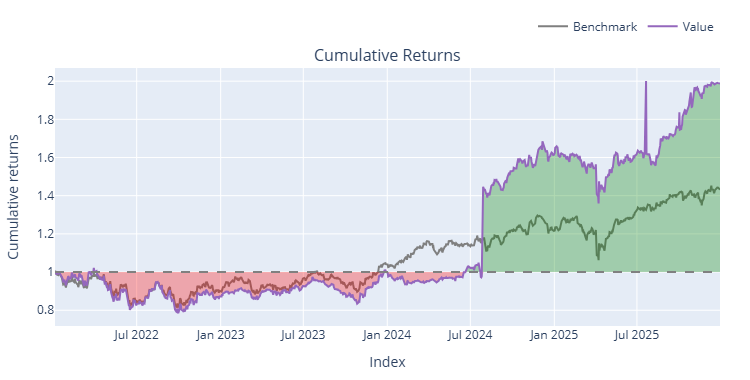
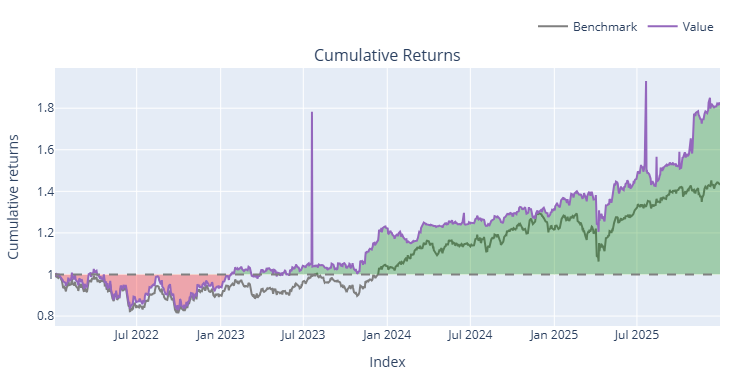
running backtest #2 - quite stabilized weights in portfolio

diff --git a/equity_project/src/run_backtest.py b/equity_project/src/run_backtest.py
@@ -90,6 +90,23 @@ def generate_weights(preds):
     weights = weights.fillna(0)
     return weights
 
+def stabilize_size_for_month(size):
+    """Выравниваем веса акций в портфеле,
+    чтобы они были стабильными с начала по конец каждого месяца
+
+    Args:
+        size (pd.DataFrame): Размеры позиций по каждой акции на каждый день
+
+    Returns:
+        pd.DataFrame: Обновленные веса бумаг в портфеле
+    """
+    # Resample to get the first value of each month
+    monthly_firsts = size.resample('MS').first()
+
+    # Reindex back to the original index and forward fill
+    size_stabilized = monthly_firsts.reindex(size.index, method='ffill')
+
+    return size_stabilized
 
 def run_backtest():
     """
@@ -121,6 +138,7 @@ def run_backtest():
     # избавляемся от полностью пустых колонок котировок
     close = backtest_data.Close.dropna(axis=1, how="all")
     size = generate_weights(preds)
+    size = stabilize_size_for_month(size)
     price = backtest_data.shift(-1).Open[list(set(close.columns) & set(size.columns))]
     close = close[price.columns]
     size = size[price.columns]
